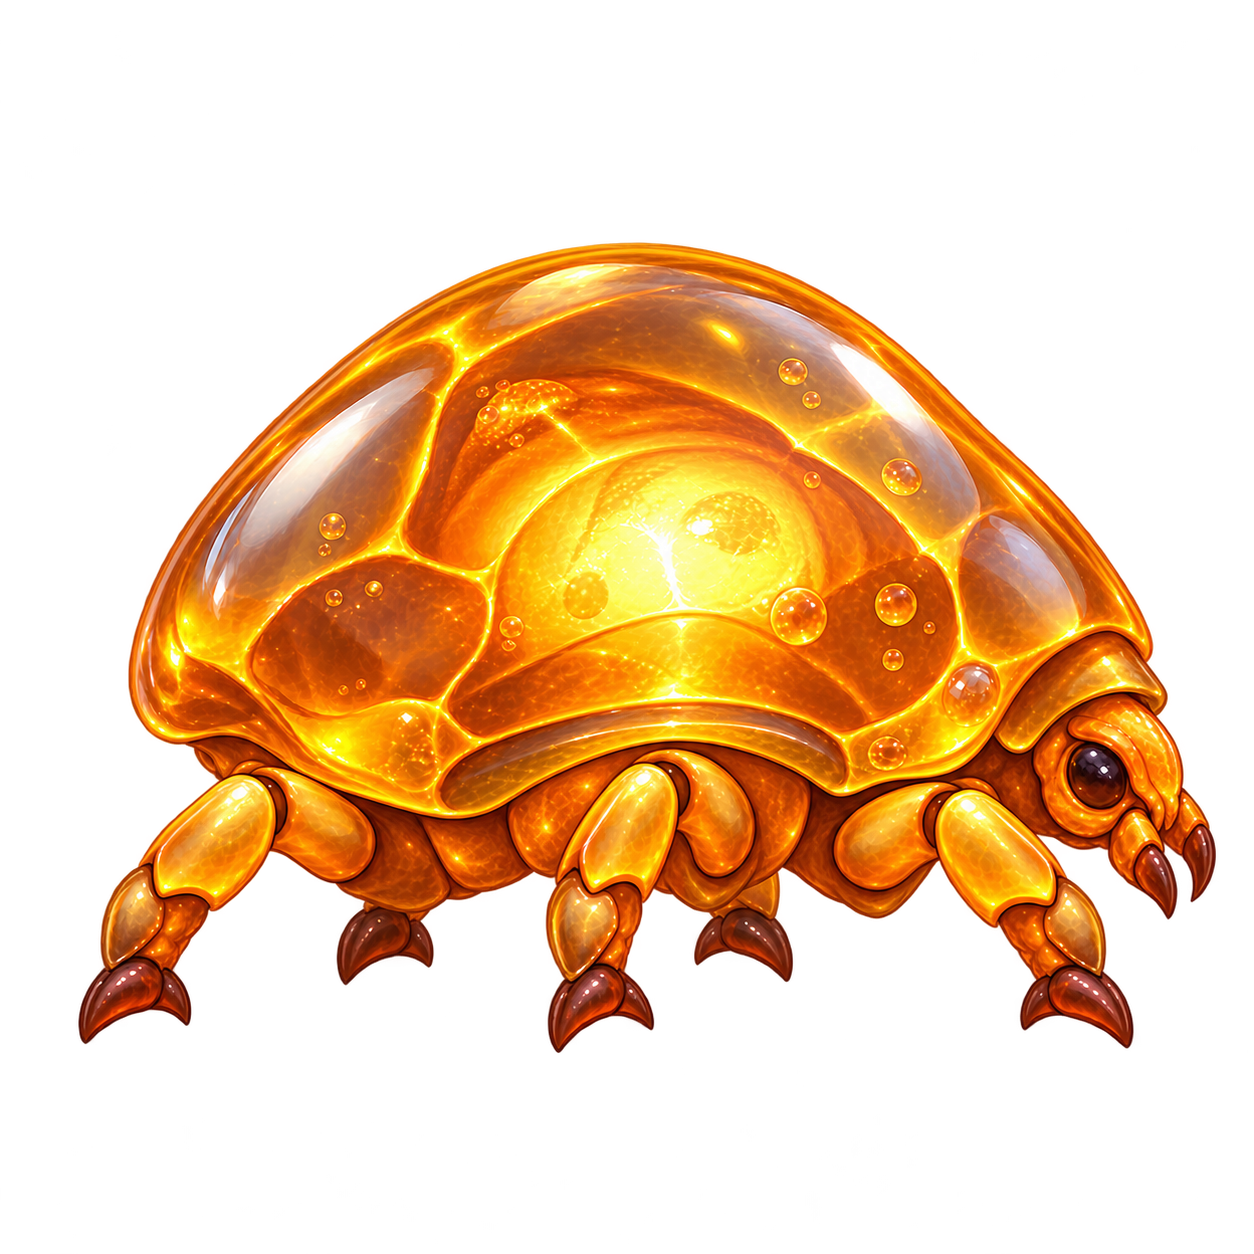
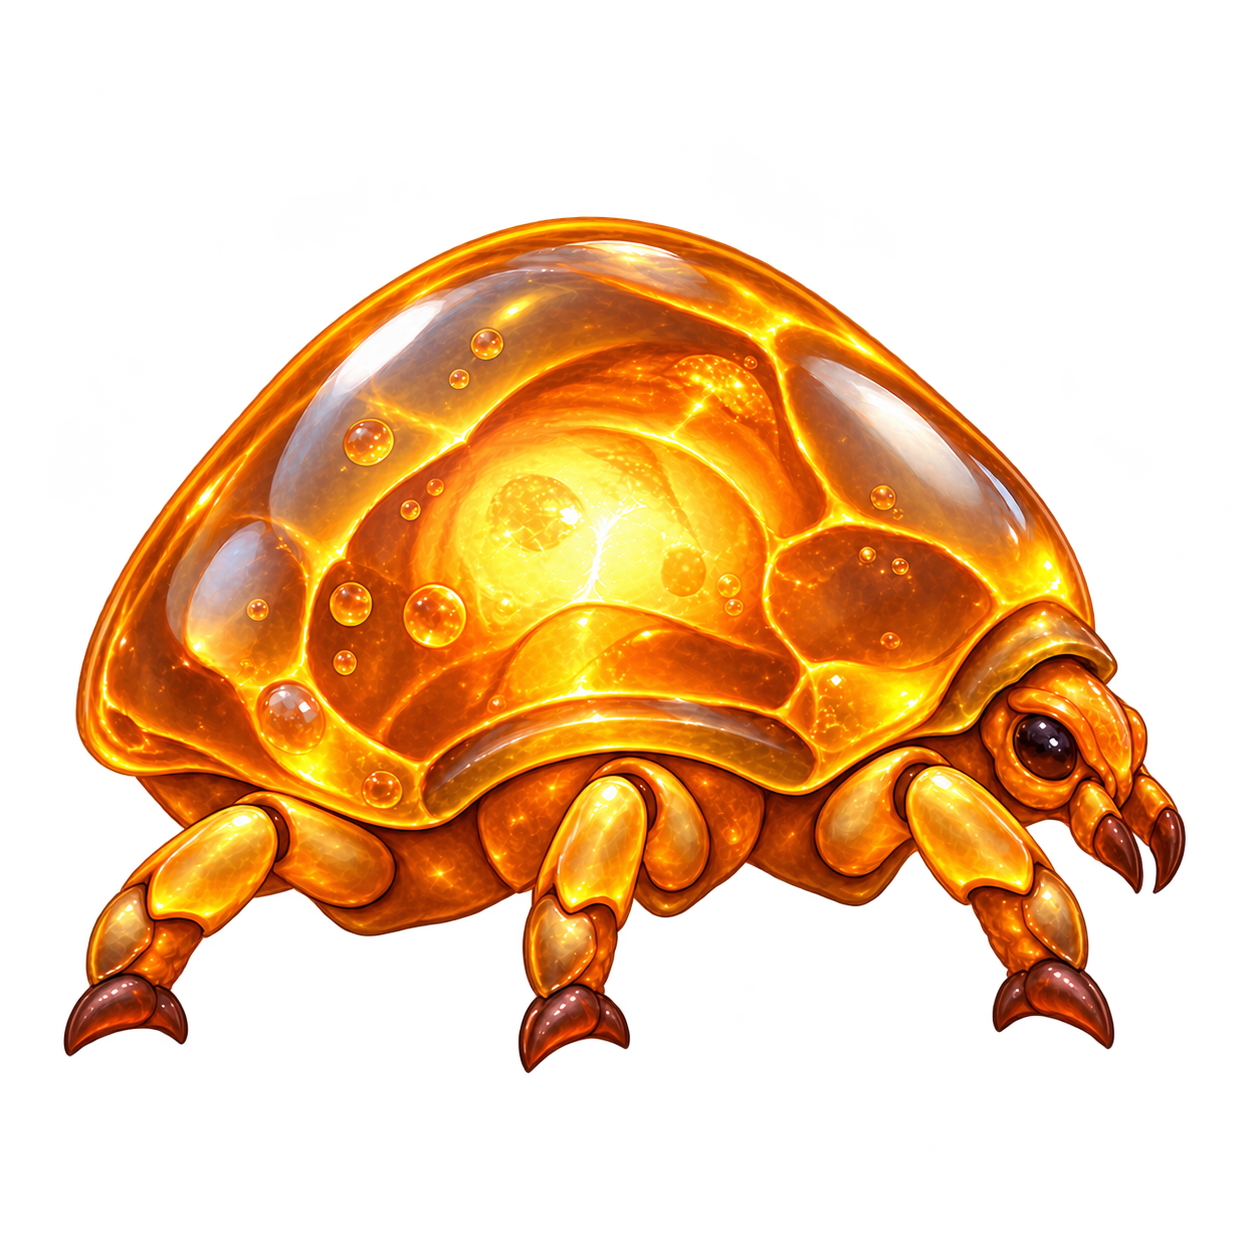
Add Lunari turnarounds and align Ambermite side leg occlusion

diff --git a/art-source/production/turnarounds.html b/art-source/production/turnarounds.html
@@ -1,1 +1,1 @@
-<!doctype html><html lang="en"><meta charset="utf-8"><title>Monster turnarounds</title><style>body{background:#202831;color:#eee;font:16px system-ui;margin:24px}section{margin-bottom:32px}.views{display:grid;grid-template-columns:repeat(4,1fr);gap:12px}figure{margin:0}img{width:100%;background:#eee}small{color:#d9b970}</style><h1>Monster turnaround review</h1><p>Reference images only. File existence and alpha checks do not prove visual consistency or animation readiness.</p><section><h2>Mosskin <small>mob_0001</small></h2><p>A round four-legged seed with a mossy shell and two twig antennae; friendly face; earth-green palette.</p><div class="views"><figure><figcaption>front</figcaption><img src="../monsters/mob_0001/front.png" alt="Mosskin front"></figure><figure><figcaption>back</figcaption><img src="../monsters/mob_0001/back.png" alt="Mosskin back"></figure><figure><figcaption>left</figcaption><img src="../monsters/mob_0001/left.png" alt="Mosskin left"></figure><figure><figcaption>right</figcaption><img src="../monsters/mob_0001/right.png" alt="Mosskin right"></figure></div></section><section><h2>Sporeling <small>mob_0002</small></h2><p>A waddling mushroom with a speckled cream-and-rust cap, stubby root feet, puffs of glowing spores.</p><div class="views"><figure><figcaption>front</figcaption><img src="../monsters/mob_0002/front.png" alt="Sporeling front"></figure><figure><figcaption>back</figcaption><img src="../monsters/mob_0002/back.png" alt="Sporeling back"></figure><figure><figcaption>left</figcaption><img src="../monsters/mob_0002/left.png" alt="Sporeling left"></figure><figure><figcaption>right</figcaption><img src="../monsters/mob_0002/right.png" alt="Sporeling right"></figure></div></section><section><h2>Ambermite <small>mob_0003</small></h2><p>A beetle-sized six-legged mite under a translucent amber shell with a glowing core; honey-orange.</p><div class="views"><figure><figcaption>front</figcaption><img src="../monsters/mob_0003/front.png" alt="Ambermite front"></figure><figure><figcaption>back</figcaption><img src="../monsters/mob_0003/back.png" alt="Ambermite back"></figure><figure><figcaption>left</figcaption><img src="../monsters/mob_0003/left.png" alt="Ambermite left"></figure><figure><figcaption>right</figcaption><img src="../monsters/mob_0003/right.png" alt="Ambermite right"></figure></div></section></html>
+<!doctype html><html lang="en"><meta charset="utf-8"><title>Monster turnarounds</title><style>body{background:#202831;color:#eee;font:16px system-ui;margin:24px}section{margin-bottom:32px}.views{display:grid;grid-template-columns:repeat(4,1fr);gap:12px}figure{margin:0}img{width:100%;background:#eee}small{color:#d9b970}</style><h1>Monster turnaround review</h1><p>Reference images only. File existence and alpha checks do not prove visual consistency or animation readiness.</p><section><h2>Mosskin <small>mob_0001</small></h2><p>A round four-legged seed with a mossy shell and two twig antennae; friendly face; earth-green palette.</p><div class="views"><figure><figcaption>front</figcaption><img src="../monsters/mob_0001/front.png" alt="Mosskin front"></figure><figure><figcaption>back</figcaption><img src="../monsters/mob_0001/back.png" alt="Mosskin back"></figure><figure><figcaption>left</figcaption><img src="../monsters/mob_0001/left.png" alt="Mosskin left"></figure><figure><figcaption>right</figcaption><img src="../monsters/mob_0001/right.png" alt="Mosskin right"></figure></div></section><section><h2>Sporeling <small>mob_0002</small></h2><p>A waddling mushroom with a speckled cream-and-rust cap, stubby root feet, puffs of glowing spores.</p><div class="views"><figure><figcaption>front</figcaption><img src="../monsters/mob_0002/front.png" alt="Sporeling front"></figure><figure><figcaption>back</figcaption><img src="../monsters/mob_0002/back.png" alt="Sporeling back"></figure><figure><figcaption>left</figcaption><img src="../monsters/mob_0002/left.png" alt="Sporeling left"></figure><figure><figcaption>right</figcaption><img src="../monsters/mob_0002/right.png" alt="Sporeling right"></figure></div></section><section><h2>Ambermite <small>mob_0003</small></h2><p>A beetle-sized six-legged mite under a translucent amber shell with a glowing core; honey-orange.</p><div class="views"><figure><figcaption>front</figcaption><img src="../monsters/mob_0003/front.png" alt="Ambermite front"></figure><figure><figcaption>back</figcaption><img src="../monsters/mob_0003/back.png" alt="Ambermite back"></figure><figure><figcaption>left</figcaption><img src="../monsters/mob_0003/left.png" alt="Ambermite left"></figure><figure><figcaption>right</figcaption><img src="../monsters/mob_0003/right.png" alt="Ambermite right"></figure></div></section><section><h2>Lunari <small>mob_0004</small></h2><p>A sugar-glider-like beast with leaf-shaped ears and a banded tail, membrane glide flaps; moonlit silver-green.</p><div class="views"><figure><figcaption>front</figcaption><img src="../monsters/mob_0004/front.png" alt="Lunari front"></figure><figure><figcaption>back</figcaption><img src="../monsters/mob_0004/back.png" alt="Lunari back"></figure><figure><figcaption>left</figcaption><img src="../monsters/mob_0004/left.png" alt="Lunari left"></figure><figure><figcaption>right</figcaption><img src="../monsters/mob_0004/right.png" alt="Lunari right"></figure></div></section></html>

diff --git a/art-source/production/BACKLOG.md b/art-source/production/BACKLOG.md
@@ -12,7 +12,7 @@ No species renames or proposed cross-species substitutions are treated as comple
 | mob_0001 | Mosskin | master-created | master-created | master-created | master-created | mosskin_2d |
 | mob_0002 | Sporeling | master-created | master-created | master-created | master-created | sporeling_2d |
 | mob_0003 | Ambermite | master-created | master-created | master-created | master-created | ambermite_2d |
-| mob_0004 | Lunari | master-created | existing-needs-review | existing-needs-review | existing-needs-review | lunari_2d |
+| mob_0004 | Lunari | master-created | master-created | master-created | master-created | lunari_2d |
 | mob_0005 | Craglet | master-created | missing | missing | missing | placeholder |
 | mob_0006 | Thornback | master-created | missing | missing | missing | placeholder |
 | mob_0007 | Dustwing | master-created | missing | missing | missing | placeholder |
